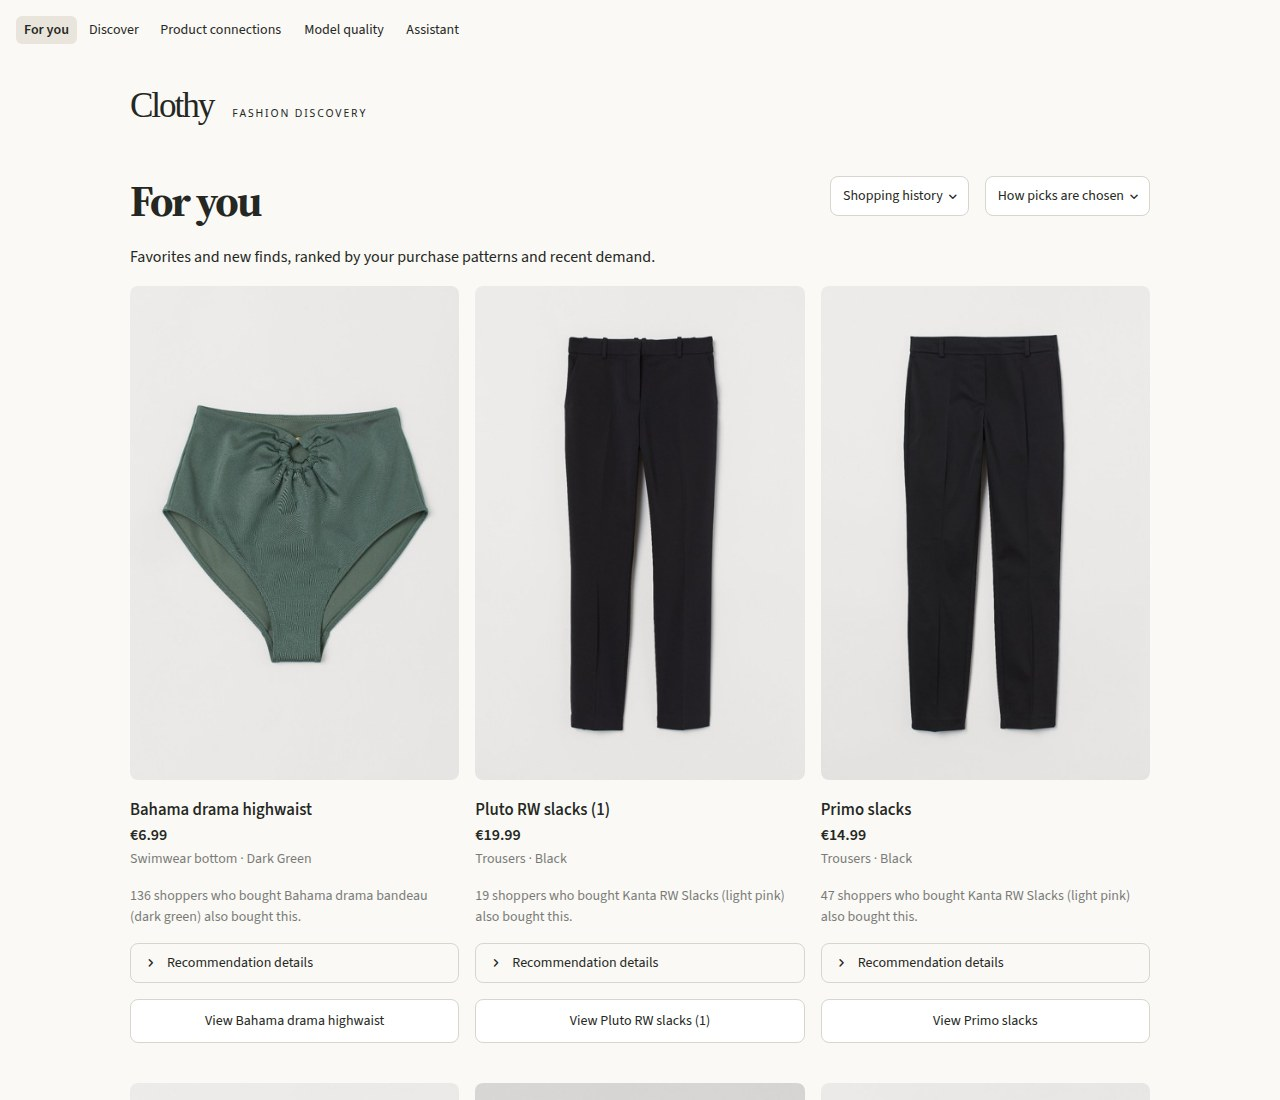
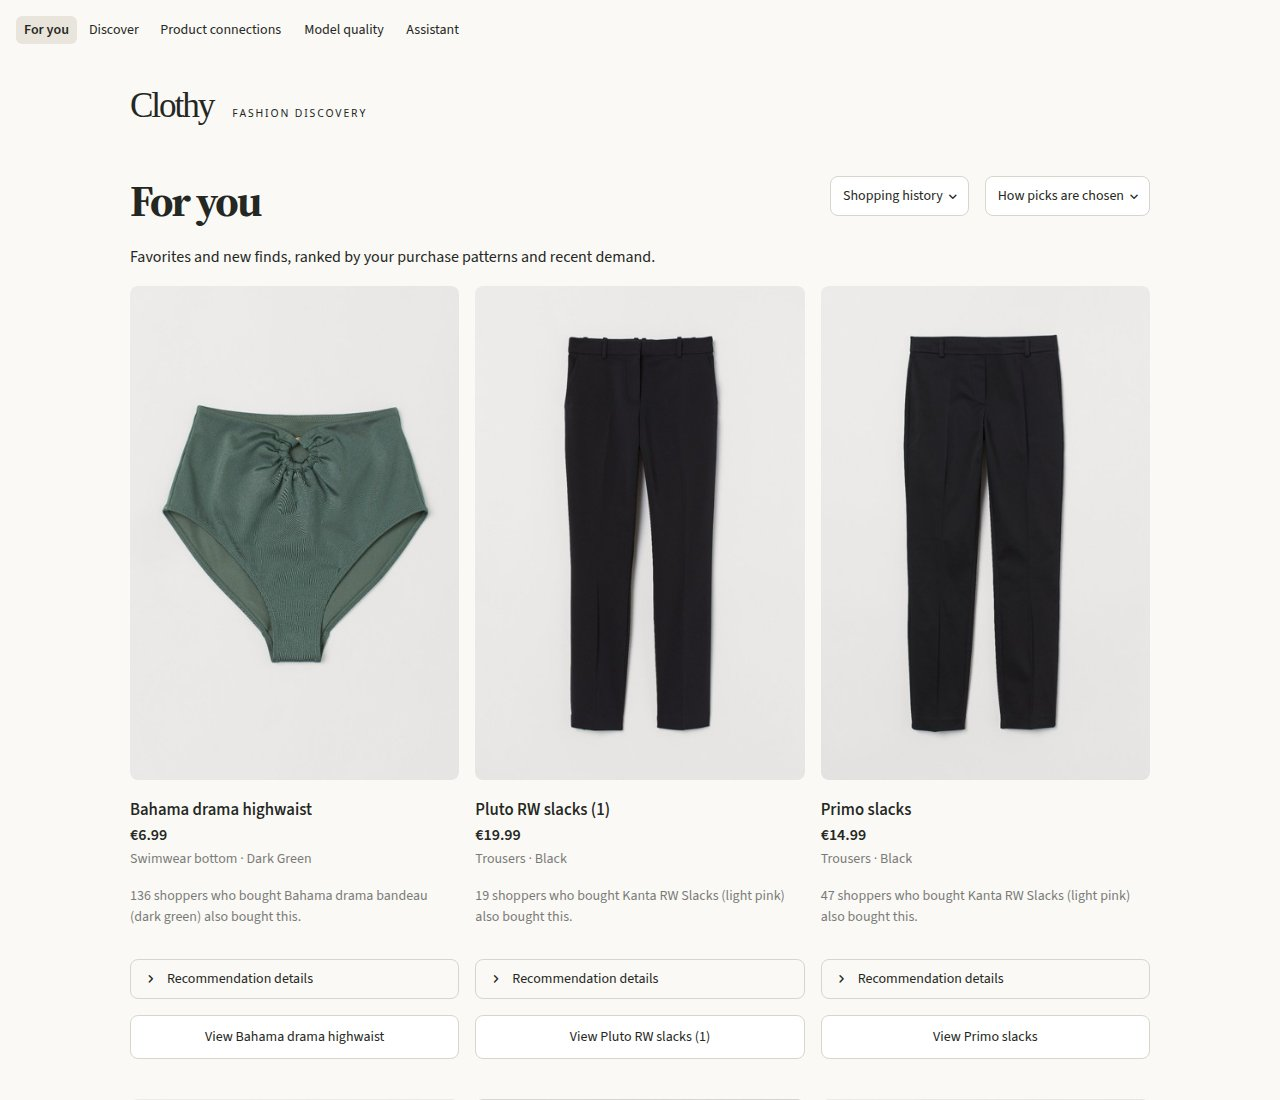
fix: align product cards within each row
Stretch each card to its row height and put flexible space before its actions. Wrapped names and recommendation reasons no longer shift neighboring buttons. Add a browser geometry check to screenshot capture and refresh affected captures.

Changed region(s): [[0.3438, 0.8655, 0.6562, 1.0], [0.125, 0.8655, 0.3125, 0.9582], [0.6562, 0.8655, 0.8125, 0.9582]]

diff --git a/scripts/take_screenshots.py b/scripts/take_screenshots.py
@@ -76,7 +76,29 @@ def wait_for_photos(page: Page, minimum: int) -> None:
     page.wait_for_function(_VISIBLE_PHOTOS_LOADED, arg=minimum, timeout=RESULT_TIMEOUT_MS)
 
 
+def assert_card_alignment(page: Page) -> None:
+    """Cards in one row must share a bottom edge and action baseline."""
+    cards = page.locator('[class*="st-key-product_card_"]').evaluate_all(
+        """elements => elements.map(element => {
+            const card = element.getBoundingClientRect();
+            const action = element.querySelector('[data-testid="stButton"] button')
+                .getBoundingClientRect();
+            return {top: card.top, bottom: card.bottom, actionBottom: action.bottom};
+        })"""
+    )
+    previous = None
+    for card in cards:
+        if previous is not None and abs(card["top"] - previous["top"]) < 1:
+            assert abs(card["bottom"] - previous["bottom"]) < 1, "Uneven product card heights"
+            assert abs(card["actionBottom"] - previous["actionBottom"]) < 1, (
+                "Uneven product actions"
+            )
+        previous = card
+
+
 def capture(page: Page, out: Path, name: str) -> None:
+    wait_for_rerun(page)
+    assert_card_alignment(page)
     # JPEG: photo grids come out about 3x smaller than PNG, which keeps re-captures cheap in git.
     path = out / f"{name}.jpg"
     page.screenshot(path=path, quality=85)

diff --git a/src/clothes_recommender/ui.py b/src/clothes_recommender/ui.py
@@ -110,7 +110,9 @@ def show_products(
             i = start + offset
             with (
                 columns[offset],
-                st.container(key=f"product_card_{context}_{product['product_id']}_{i}"),
+                st.container(
+                    key=f"product_card_{context}_{product['product_id']}_{i}", height="stretch"
+                ),
             ):
                 if (photo := product_photo(product["product_id"])) is not None:
                     st.image(photo, width="stretch")
@@ -126,6 +128,7 @@ def show_products(
                 evidence = reasons[i] if reasons is not None else []
                 if reason := recommendation_reason(evidence):
                     st.caption(reason)
+                st.space("stretch")
                 if scores is not None or evidence:
                     with st.expander("Recommendation details"):
                         if scores is not None:
